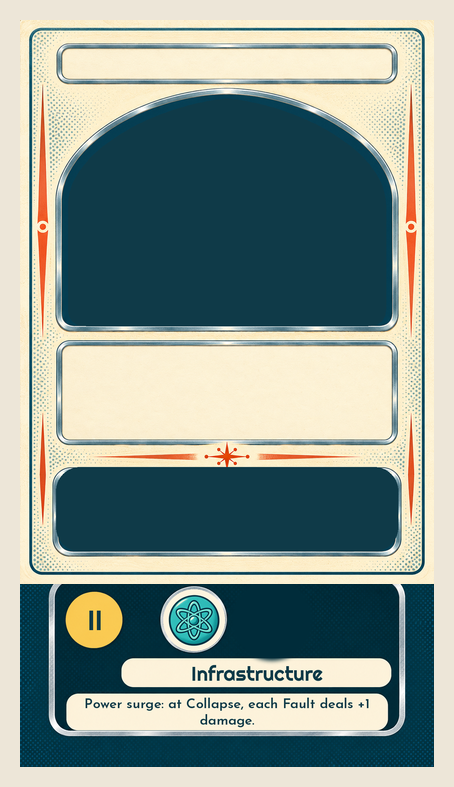
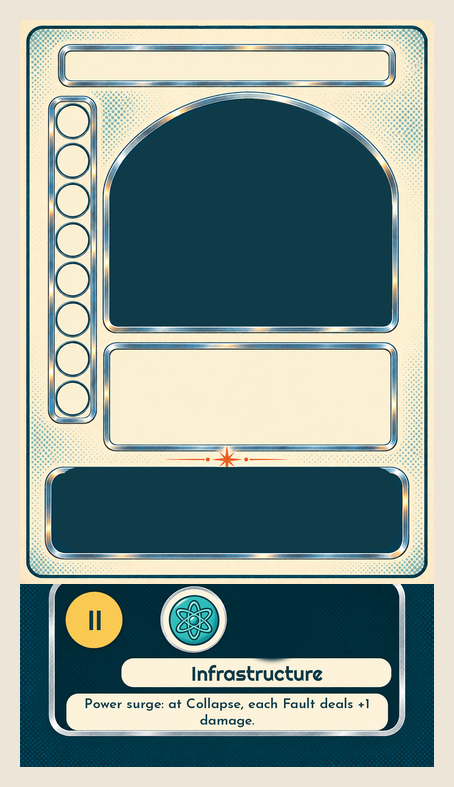
Retro batch 8: card frame v4a (guild column) and Wall v4b (49 mm windows), exact cuts; cards, Wall, mock-up, event demo and rulebook diagrams switched over
Claude-Session: https://claude.ai/code/session_014To8X9aHo3rSPP2S9tniN3

Changed region(s): [[0.0308, 0.0305, 0.9559, 0.7624]]

diff --git a/generation-ship/tools/table_mockup.py b/generation-ship/tools/table_mockup.py
@@ -27,7 +27,7 @@ ROOT = Path(__file__).resolve().parent.parent
 SRC = ROOT / "art" / "source" / "retro"
 OUT = ROOT / "art" / "mockups"
 PX = 6                                # px per mm on the table
-CARD_FRAME = "card_frame_v4b_exact.png"   # people cards: the frame with the guild column (Retro batch 8)
+CARD_FRAME = "card_frame_v4a_exact.png"   # people cards: the frame with the guild column (Retro batch 8)
 TABLE = (900, 640)                    # mm
 FONT_B = str(ROOT / "art" / "fonts" / "Righteous-Regular.ttf")          # style guide: titles
 FONT = str(ROOT / "art" / "fonts" / "JosefinSans[wght].ttf")            # style guide: body text
@@ -129,7 +129,7 @@ def wrap(d, text, f, width):
 
 
 def people_card(person, portrait, name):
-    """A finished people card at 16 px/mm (no bleed), from card_frame_v3b_exact."""
+    """A finished people card at 16 px/mm (no bleed), from card_frame_v4a_exact."""
     s, b = rt.CARD_PX, rt.BLEED
     im = Image.open(SRC / CARD_FRAME).convert("RGB")
     portrait_into(im, portrait, s, (b, b))
@@ -181,7 +181,7 @@ def card_back():
 def wall_panel(leaders, first_slot):
     """One Wall panel (8 px/mm) with retired leaders showing through its windows."""
     s = rt.WALL_PX
-    im = Image.open(SRC / "wall_panel_v3b_exact.png").convert("RGB")
+    im = Image.open(SRC / "wall_panel_v4b_exact.png").convert("RGB")
     d = ImageDraw.Draw(im)
     origins = rt.wall_slot_origins()
     numerals = ["I", "II", "III", "IV", "V", "VI", "VII", "VIII", "IX", "X", "XI", "XII"]

diff --git a/generation-ship/tools/rulebook_diagrams.py b/generation-ship/tools/rulebook_diagrams.py
@@ -48,7 +48,7 @@ def build_images():
         tm.round_corners(ev.crop((b, b, ev.width - b, ev.height - b)), 3 * rt.CARD_PX).save(IMG / f"event_{eid}.png")
     # one Wall slot with its windows cut out (transparent), so a card can show through
     s = rt.WALL_PX
-    wall = Image.open(SRC / "wall_panel_v3b_exact.png").convert("RGBA")
+    wall = Image.open(SRC / "wall_panel_v4b_exact.png").convert("RGBA")
     ox, oy = rt.wall_slot_origins()[0]
     cut = tm.window_mask(wall.size, s, [(ox, oy)], erode=False)
     d = ImageDraw.Draw(cut)

diff --git a/generation-ship/tools/event_cards.py b/generation-ship/tools/event_cards.py
@@ -118,7 +118,7 @@ def main():
         im.save(out)
         outs.append(out)
         print("wrote", out.relative_to(ROOT))
-    leader = Image.open(SRC / "card_frame_v3b_exact.png").convert("RGB")
+    leader = Image.open(SRC / "card_frame_v4a_exact.png").convert("RGB")
     demo = tuck_demo(Image.open(outs[1]), leader)
     out = ROOT / "art" / "mockups" / "event_tuck_demo.png"
     demo.save(out)
